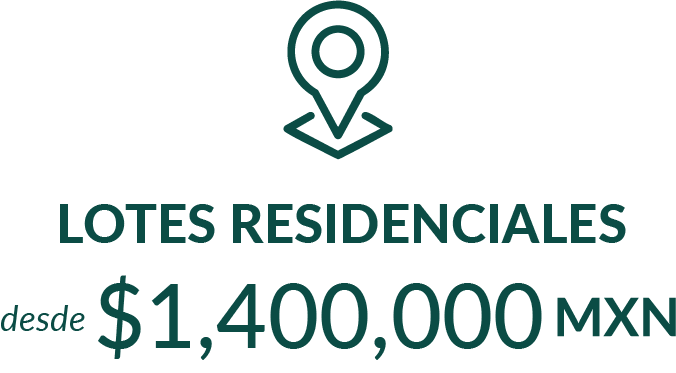
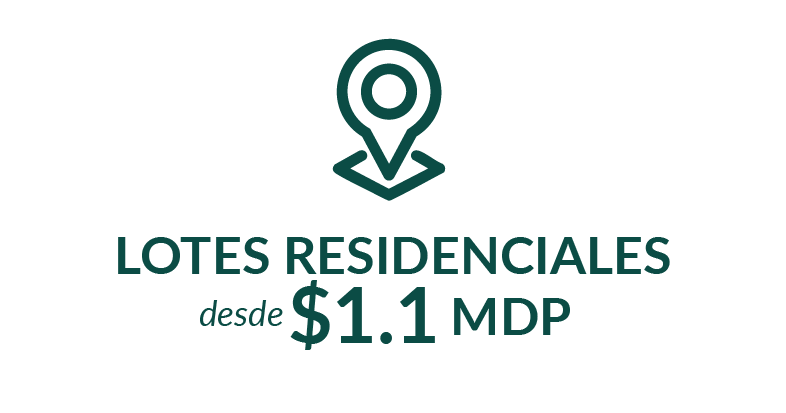
adjusting images and mobile version of beneficios

Changed region(s): [[0.0621, 0.5308, 1.0, 0.9732], [0.4038, 0.0, 0.5902, 0.5013], [0.0, 0.8257, 0.1243, 0.8847]]

diff --git a/index.html b/index.html
@@ -26,7 +26,8 @@
       </h1>
       <div id="subtitle">
         <p>desde</p>
-        <h2>$1,400,000 MXN</h2>
+        <h2>$1.1</h2>
+        <p>MDP</p>
       </div>
       <div id="text">
         <p>en</p>
@@ -45,8 +46,8 @@
   <section id="first-subtitle-wrapper" style="padding-top: 1rem; padding-bottom: 1rem;">
     <div id="first-subtitle">
       <div class="text-container">
-        <p>Un Desarrollo</p>
-        <p>Natural, Sostenible y Con Alta Plusvalía</p>
+        <p>Un desarrollo</p>
+        <p>natural, sostenible y con alta plusvalía</p>
       </div>
       <img class="planta" src="./assets/planta.png" alt="planta">
     </div>
@@ -72,13 +73,15 @@
   </div>
 </section>
 <section id="beneficios">
-  <div class="title-container">Beneficios de Invertir en&nbsp;Aldea&nbsp;Umm</div>
+  <div class="title-container">Beneficios&nbsp;de&nbsp;Invertir en&nbsp;Aldea&nbsp;Umm</div>
   <div class="items-container">
     <div class="item"><img class="pop item-a" src="./assets/pop-1.png" alt="pop image1"></div>
+    <div class="division-line"></div>
     <div class="item"><img class="pop item-a" src="./assets/pop-2.png" alt="pop image2"></div>
+    <div class="division-line"></div>
     <div class="item"><img class="pop item-a" src="./assets/pop-3.png" alt="pop image3"></div>
+    <div class="division-line"></div>
     <div class="item"><img class="pop item-a" src="./assets/pop-4.png" alt="pop image4"></div>
-    <div class="item"><img class="pop item-a" src="./assets/pop-5.png" alt="pop image5"></div>
   </div>
 </section>
 <header id="header-container">

diff --git a/css/beneficios.css b/css/beneficios.css
@@ -1,7 +1,10 @@
+#beneficios{
+    overflow: hidden;
+}
 #beneficios .title-container{
     text-align: center;
     font-family: 'Abhaya', sans-serif;
-    font-size: 2.5rem;
+    font-size: 2.3rem;
     color: var(--primary-color);
     padding: 4rem 1rem 0 ;
 }
@@ -11,22 +14,30 @@
 #beneficios .item{
     display: flex;
     justify-content: center;
-    padding: 1rem 0;
+    padding: 0;
 }
 #beneficios .item .pop{
-    height: 8rem;
+    height: 10rem;
 }
 @media screen and (min-width: 768px) {
+    #beneficios{
+        width: 100%;
+        justify-content: center;
+        display: flex;
+        flex-direction: column;
+    }
     #beneficios .title-container{
     padding: 3rem 1rem 0 ;
 }
     #beneficios .items-container{
         display: flex;
+        width: fit-content;
         padding: 2rem 2rem;
         justify-content: space-between;
     }
     #beneficios .item .pop{
     height: 7rem;
+    padding: 0 1rem;
 }
 }
 @media screen and (min-width: 768px) and (min-height: 721px) {

diff --git a/css/header.css b/css/header.css
@@ -17,19 +17,19 @@ header .title-container {
   margin: 2rem 0;
 }
 header .title {
-  font-size: 3rem;
+  font-size: 2.5rem;
   color: var(--secondary-color);
   text-align: center;
   font-family: "lato-bold", sans-serif !important;
   margin: 0;
 }
 header #lotes {
-  font-size: 3rem;
+  font-size: 2.5rem;
   color: white;
   font-family: "lato", sans-serif !important;
 }
 header #residenciales {
-  font-size: 1.8rem;
+  font-size: 1.5rem;
   margin: 0px;
   text-align: center;
   color: white;
@@ -52,8 +52,9 @@ header h2 {
 }
 header #subtitle {
   font-size: 1rem;
+  padding-bottom: 0.5rem;
   display: flex;
-  flex-direction: column;
+  flex-direction: row;
   align-items: center;
   gap: 5px;
   color: var(--secondary-color);
